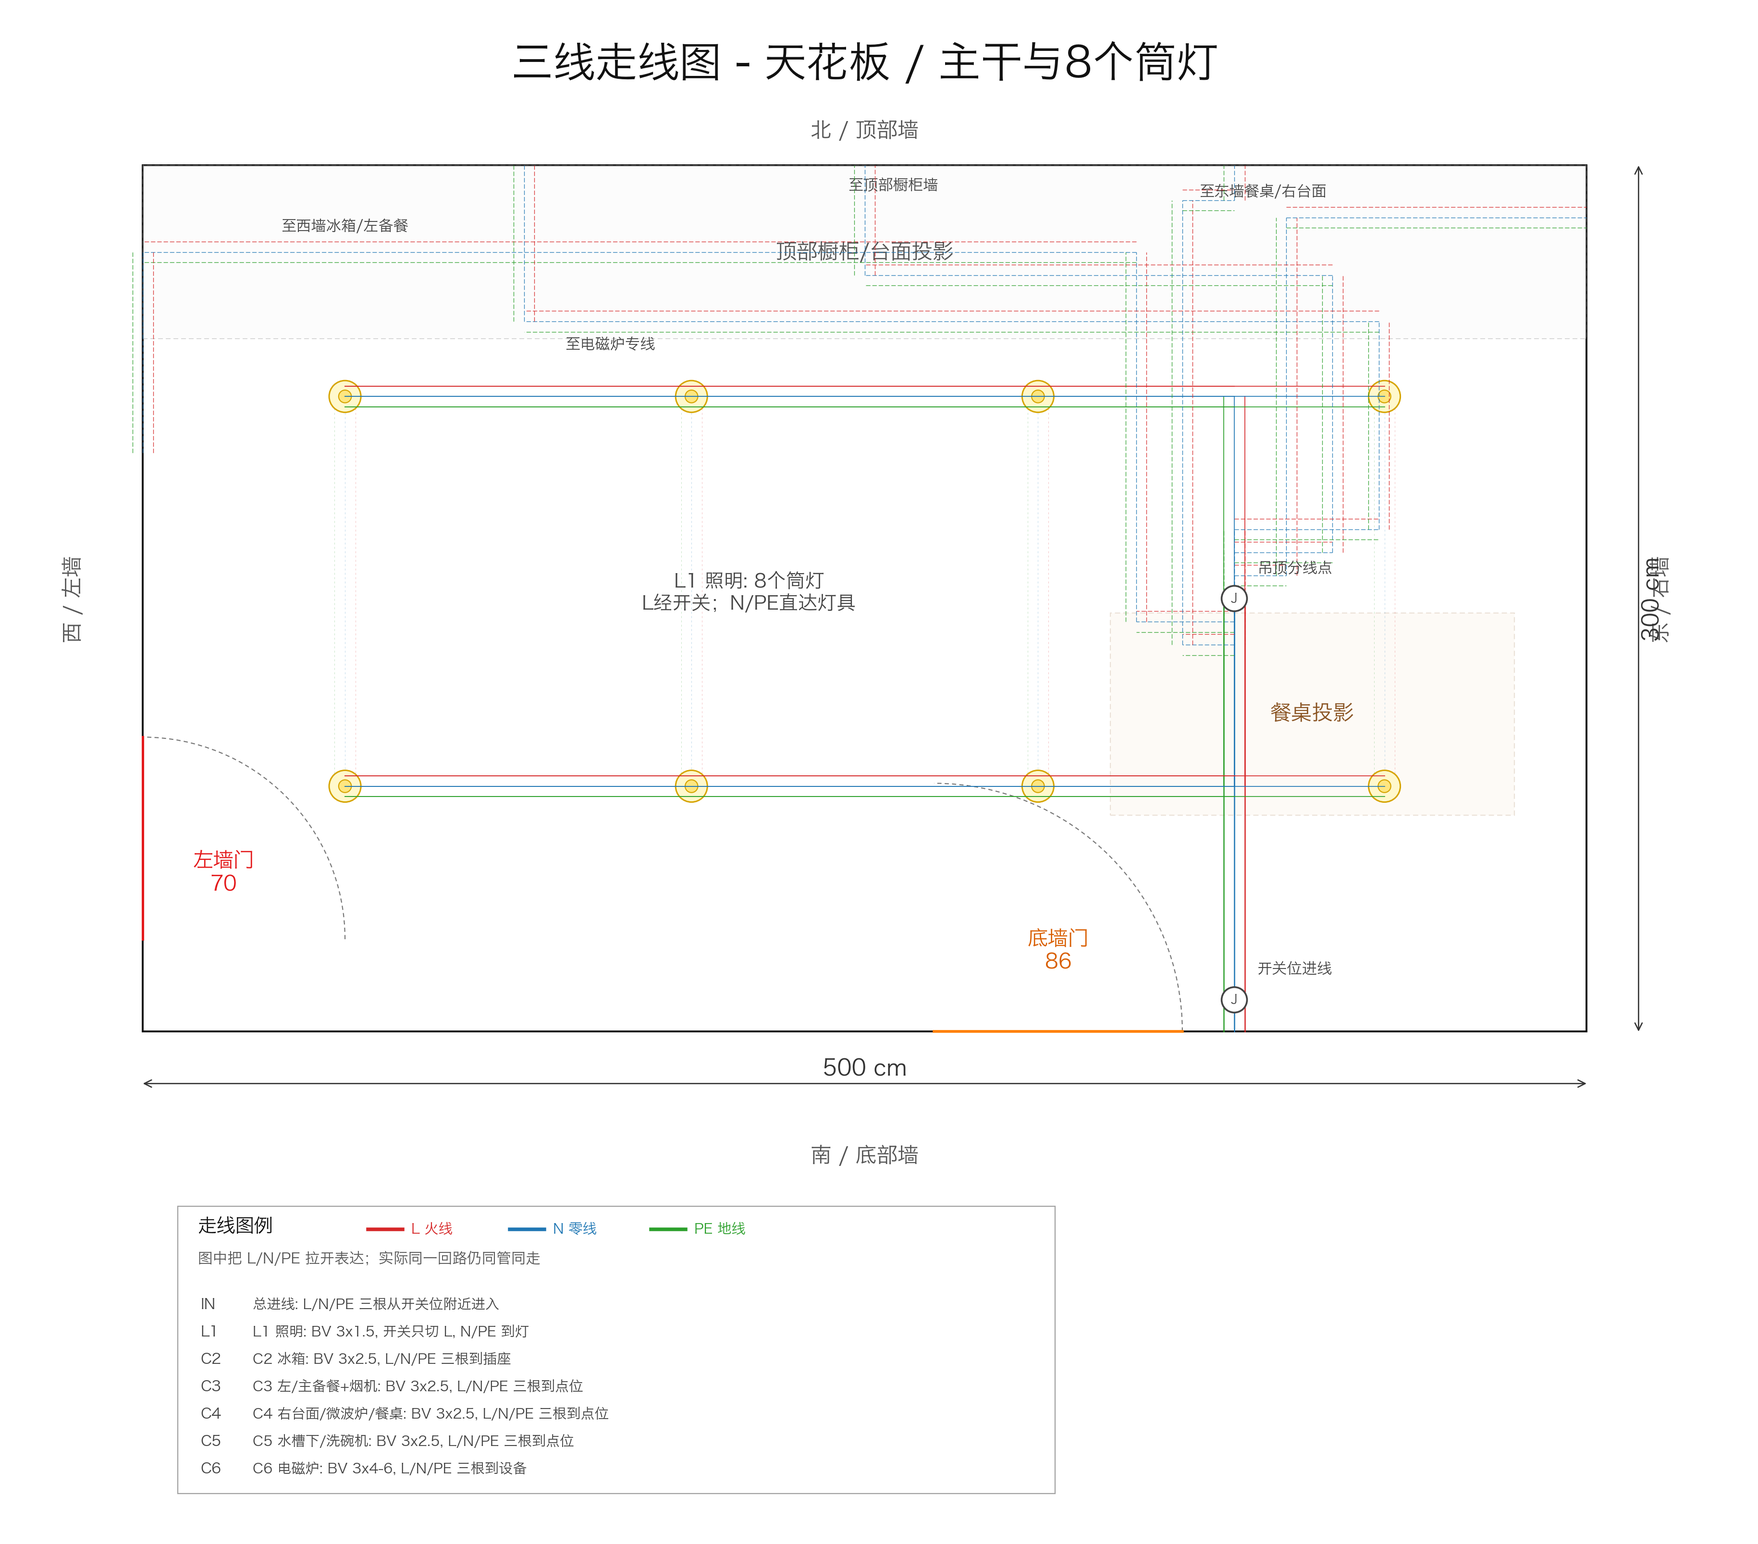
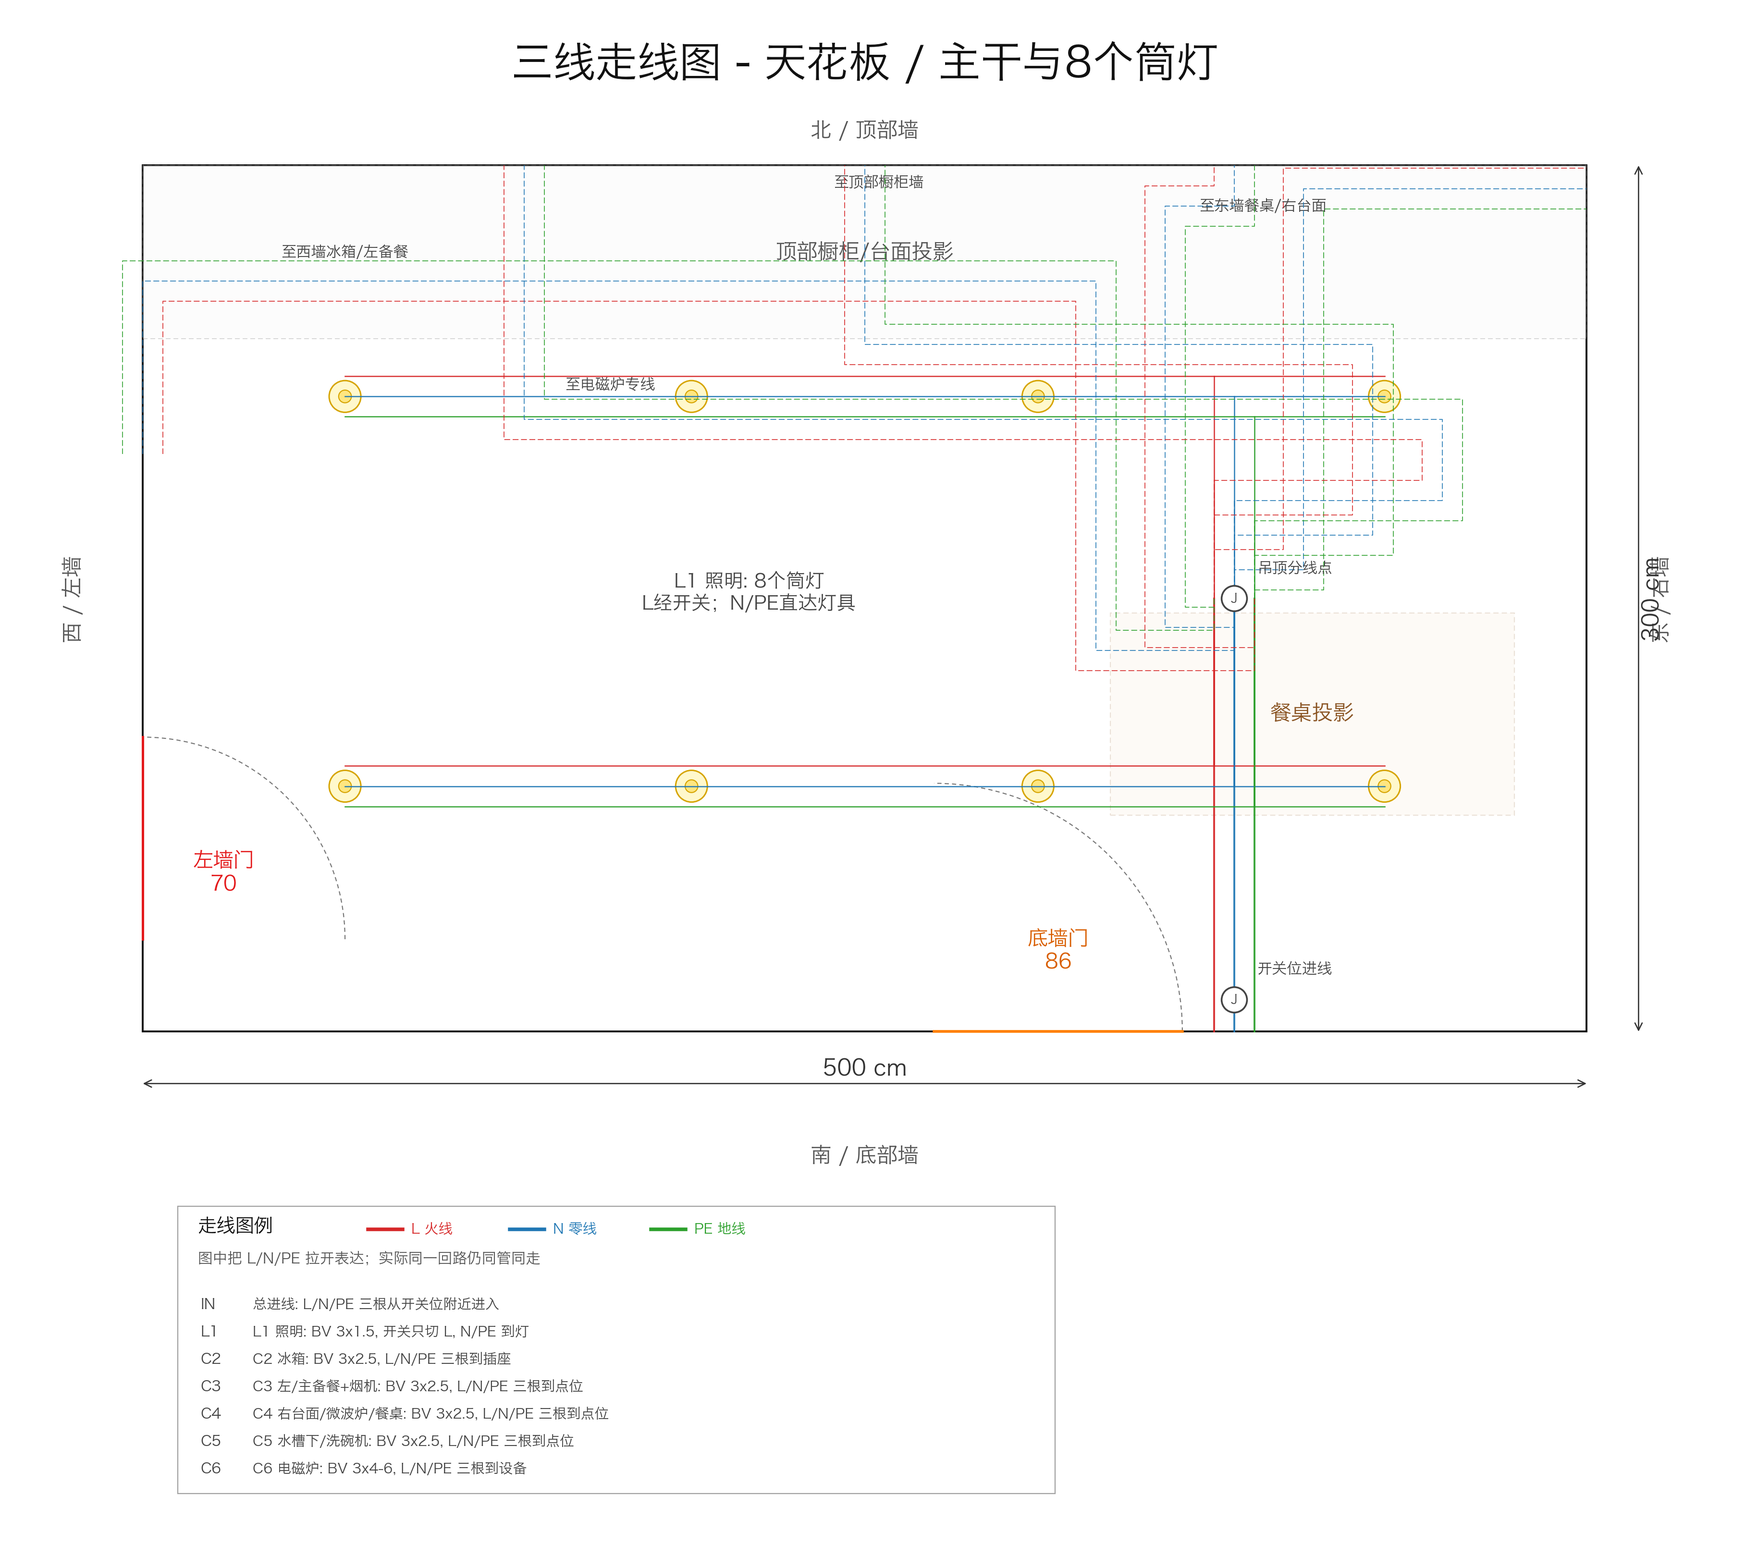
Clarify three-conductor wiring diagrams

diff --git a/draw_kitchen_layout.py b/draw_kitchen_layout.py
@@ -162,7 +162,12 @@ CONDUCTOR_LABELS = {
     "PE": "PE 地线",
 }
 
-CONDUCTOR_GAP = 3.6
+CONDUCTOR_GAP = 7.0
+CONDUCTOR_OFFSETS = {
+    "L": CONDUCTOR_GAP,
+    "N": 0.0,
+    "PE": -CONDUCTOR_GAP,
+}
 
 WIRE_LEGEND = [
     ("IN", "总进线: L/N/PE 三根从开关位附近进入"),
@@ -1124,17 +1129,21 @@ def draw_upper_cabinets_elevation(ax: plt.Axes) -> None:
     add_label(ax, 438, UPPER_TOP + 21, f"顶柜深 {UPPER_DEPTH:g}D", size=6.8, color=COLORS["upper"])
 
 
-def draw_south_electrical_points(ax: plt.Axes) -> None:
+def draw_south_electrical_points(ax: plt.Axes, *, expanded: bool = False) -> None:
+    prep_spacing = 28 if expanded else 12
+    wet_spacing = 24 if expanded else 10
+    right_spacing = 28 if expanded else 12
+    microwave_spacing = 24 if expanded else 10
     draw_electrical_point(ax, 165, 216, "油烟机\n三孔 H=220", label_dx=24, label_dy=0, size=5.1)
     draw_electrical_point(ax, 132, 52, "电磁炉/嵌入灶\n独立大功率\nH=50", label_dx=-40, label_dy=2, size=4.6)
-    draw_socket_row(ax, 220, 115, 2, "主备餐 x2\n五孔 H=115", spacing=12, label_dy=15, size=4.8)
-    draw_socket_row(ax, 312, 55, 3, "水槽下 x3\n小厨宝/RO/备用\nH=45-60", spacing=10, label_dy=18, size=4.5)
+    draw_socket_row(ax, 220, 115, 2, "主备餐 x2\n五孔 H=115", spacing=prep_spacing, label_dy=15, size=4.8)
+    draw_socket_row(ax, 312, 55, 3, "水槽下 x3\n小厨宝/RO/备用\nH=45-60", spacing=wet_spacing, label_dy=18, size=4.5)
     draw_electrical_point(ax, 352, 52, "洗碗机\n相邻柜\nH=45-60", label_dx=24, label_dy=0, size=4.5)
-    draw_socket_row(ax, 382, 115, 2, "水槽右 x2\n五孔 H=115", spacing=12, label_dy=15, size=4.8)
-    draw_socket_row(ax, 462, 115, 3, "微波炉区 x2-3\n五孔 H=115", spacing=10, label_dy=15, size=4.8)
+    draw_socket_row(ax, 382, 115, 2, "水槽右 x2\n五孔 H=115", spacing=right_spacing, label_dy=15, size=4.8)
+    draw_socket_row(ax, 462, 115, 3, "微波炉区 x2-3\n五孔 H=115", spacing=microwave_spacing, label_dy=15, size=4.8)
 
 
-def draw_elevation_counter_run(ax: plt.Axes) -> None:
+def draw_elevation_counter_run(ax: plt.Axes, *, expanded_electrical: bool = False) -> None:
     for module in TOP_MODULES:
         add_rect(ax, (module.x, 0), module.width, COUNTER_HEIGHT, fc=module.facecolor, ec="#555555", lw=0.4, zorder=2)
         mini_dim(ax, module.x, module.x + module.width, -10, f"{module.width:g}", size=7)
@@ -1164,7 +1173,7 @@ def draw_elevation_counter_run(ax: plt.Axes) -> None:
     mini_vdim(ax, WINDOW_X - 12, 0, WINDOW_SILL_H, f"{WINDOW_SILL_H:g} cm", color=COLORS["green"], size=7.0)
     mini_vdim(ax, WINDOW_X + WINDOW_W + 12, WINDOW_SILL_H, WINDOW_SILL_H + WINDOW_H, f"{WINDOW_H:g} cm", color=COLORS["window"], size=7.0)
     draw_upper_cabinets_elevation(ax)
-    draw_south_electrical_points(ax)
+    draw_south_electrical_points(ax, expanded=expanded_electrical)
 
 
 def draw_table_elevation(ax: plt.Axes, x: float, width: float, *, label: str, zorder: int = 5) -> None:
@@ -1426,6 +1435,59 @@ def draw_downlight(ax: plt.Axes, x: float, y: float, *, label: str = "", size: f
         add_label(ax, x, y + 17, label, size=size, color="#7a5b00")
 
 
+def _line_intersection(
+    a1: tuple[float, float],
+    a2: tuple[float, float],
+    b1: tuple[float, float],
+    b2: tuple[float, float],
+) -> tuple[float, float] | None:
+    x1, y1 = a1
+    x2, y2 = a2
+    x3, y3 = b1
+    x4, y4 = b2
+    denom = (x1 - x2) * (y3 - y4) - (y1 - y2) * (x3 - x4)
+    if abs(denom) < 1e-9:
+        return None
+    px = ((x1 * y2 - y1 * x2) * (x3 - x4) - (x1 - x2) * (x3 * y4 - y3 * x4)) / denom
+    py = ((x1 * y2 - y1 * x2) * (y3 - y4) - (y1 - y2) * (x3 * y4 - y3 * x4)) / denom
+    return px, py
+
+
+def _offset_polyline(
+    points: list[tuple[float, float]] | tuple[tuple[float, float], ...],
+    offset: float,
+) -> list[tuple[float, float]]:
+    if len(points) < 2 or abs(offset) < 1e-9:
+        return list(points)
+
+    shifted_segments: list[tuple[tuple[float, float], tuple[float, float]]] = []
+    for (x1, y1), (x2, y2) in zip(points, points[1:]):
+        dx = x2 - x1
+        dy = y2 - y1
+        length = (dx * dx + dy * dy) ** 0.5
+        if length < 1e-9:
+            continue
+        nx = -dy / length
+        ny = dx / length
+        shifted_segments.append(((x1 + nx * offset, y1 + ny * offset), (x2 + nx * offset, y2 + ny * offset)))
+
+    if not shifted_segments:
+        return list(points)
+
+    offset_points = [shifted_segments[0][0]]
+    for prev_segment, next_segment in zip(shifted_segments, shifted_segments[1:]):
+        intersection = _line_intersection(prev_segment[0], prev_segment[1], next_segment[0], next_segment[1])
+        if intersection is None:
+            # Collinear or degenerate transition; keep the corner continuous without adding a visible connector.
+            intersection = (
+                (prev_segment[1][0] + next_segment[0][0]) / 2,
+                (prev_segment[1][1] + next_segment[0][1]) / 2,
+            )
+        offset_points.append(intersection)
+    offset_points.append(shifted_segments[-1][1])
+    return offset_points
+
+
 def draw_wire(
     ax: plt.Axes,
     points: list[tuple[float, float]] | tuple[tuple[float, float], ...],
@@ -1437,27 +1499,24 @@ def draw_wire(
     zorder: int = 20,
     conductors: tuple[str, ...] = ("L", "N", "PE"),
 ) -> None:
-    if len(conductors) == 1:
-        conductor_offsets = {conductors[0]: 0.0}
-    else:
-        conductor_offsets = {"L": CONDUCTOR_GAP, "N": 0.0, "PE": -CONDUCTOR_GAP}
-    for (x1, y1), (x2, y2) in zip(points, points[1:]):
-        horizontal = abs(x2 - x1) >= abs(y2 - y1)
-        for conductor in conductors:
-            offset = conductor_offsets.get(conductor, 0.0)
-            dx = 0.0 if horizontal else offset
-            dy = offset if horizontal else 0.0
-            ax.add_line(
-                Line2D(
-                    [x1 + dx, x2 + dx],
-                    [y1 + dy, y2 + dy],
-                    color=CONDUCTOR_COLORS[conductor],
-                    lw=max(lw * 0.34, 0.16),
-                    ls=ls,
-                    alpha=alpha,
-                    zorder=zorder,
-                )
+    for conductor in conductors:
+        offset = CONDUCTOR_OFFSETS.get(conductor, 0.0) if len(conductors) > 1 else 0.0
+        path = _offset_polyline(points, offset)
+        if len(path) < 2:
+            continue
+        xs = [point[0] for point in path]
+        ys = [point[1] for point in path]
+        ax.add_line(
+            Line2D(
+                xs,
+                ys,
+                color=CONDUCTOR_COLORS[conductor],
+                lw=max(lw * 0.48, 0.24),
+                ls=ls,
+                alpha=alpha,
+                zorder=zorder,
             )
+        )
 
 
 def socket_centers(x: float, count: int, spacing: float) -> list[float]:
@@ -1511,6 +1570,31 @@ def draw_wire_drop(
         add_label(ax, x + label_dx, (y_top + y_bottom) / 2, label, size=size, color=WIRE_COLORS[circuit], ha="left")
 
 
+def draw_three_conductor_bus_with_riser(
+    ax: plt.Axes,
+    riser_x: float,
+    riser_y0: float,
+    bus_y: float,
+    x_start: float,
+    x_end: float,
+    circuit: str,
+    *,
+    lw: float = 0.62,
+    ls: str | tuple = "-",
+    alpha: float = 0.92,
+    zorder: int = 20,
+) -> None:
+    vertical_offsets = {"L": -CONDUCTOR_GAP, "N": 0.0, "PE": CONDUCTOR_GAP}
+    horizontal_offsets = {"L": CONDUCTOR_GAP, "N": 0.0, "PE": -CONDUCTOR_GAP}
+    for conductor in ("L", "N", "PE"):
+        x = riser_x + vertical_offsets[conductor]
+        y = bus_y + horizontal_offsets[conductor]
+        color = CONDUCTOR_COLORS[conductor]
+        line_width = max(lw * 0.48, 0.24)
+        ax.add_line(Line2D([x, x], [riser_y0, y], color=color, lw=line_width, ls=ls, alpha=alpha, zorder=zorder))
+        ax.add_line(Line2D([x_start, x_end], [y, y], color=color, lw=line_width, ls=ls, alpha=alpha, zorder=zorder))
+
+
 def draw_wiring_legend(ax: plt.Axes, x: float, y: float, *, compact: bool = False) -> None:
     row_h = 9.5 if compact else 10.5
     rows = WIRE_LEGEND if not compact else WIRE_LEGEND[:1] + WIRE_LEGEND[1:4] + WIRE_LEGEND[4:]
@@ -1542,27 +1626,27 @@ def draw_wiring_note(ax: plt.Axes, x: float, y: float, text: str, *, width: floa
 
 def build_wiring_view_from_south_figure() -> tuple[plt.Figure, plt.Axes]:
     fig, ax = setup_full_wall_view("三线走线图 - 顶部墙 / 橱柜墙", ROOM_W, figsize=(13.5, 7.0))
-    draw_elevation_counter_run(ax)
+    draw_elevation_counter_run(ax, expanded_electrical=True)
     draw_wall_trunk(ax, ROOM_W)
     add_label(ax, ENTRY_X, WALL_TRUNK_H + 21, "来自底墙开关位进线\n经吊顶主干转入", size=5.2, color=WIRE_COLORS["IN"])
 
     # Stagger routes so red/blue/green conductors are readable.
-    draw_socket_row_feed(ax, [(ENTRY_X, 281), (165, 281)], 165, 216, 1, "C3", feed_offset=14, lw=0.62)
-    draw_socket_row_feed(ax, [(ENTRY_X, 267), (220, 267)], 220, 115, 2, "C3", spacing=12, feed_offset=14, lw=0.62)
-    draw_junction(ax, 220, 267, "C3 备餐/烟机", "C3", size=4.6)
+    draw_socket_row_feed(ax, [(ENTRY_X, 286), (165, 286)], 165, 216, 1, "C3", feed_offset=26, lw=0.58)
+    draw_socket_row_feed(ax, [(ENTRY_X, 266), (220, 266)], 220, 115, 2, "C3", spacing=28, feed_offset=24, lw=0.58)
+    draw_junction(ax, 220, 266, "C3 备餐/烟机", "C3", size=4.6)
 
-    draw_socket_row_feed(ax, [(ENTRY_X, 251), (382, 251)], 382, 115, 2, "C4", spacing=12, feed_offset=14, lw=0.62)
-    draw_socket_row_feed(ax, [(382, 251), (462, 251)], 462, 115, 3, "C4", spacing=10, feed_offset=14, lw=0.62)
-    draw_junction(ax, 382, 251, "C4 右台面", "C4", size=4.6)
+    draw_socket_row_feed(ax, [(ENTRY_X, 244), (382, 244)], 382, 115, 2, "C4", spacing=28, feed_offset=24, lw=0.58)
+    draw_socket_row_feed(ax, [(382, 244), (462, 244)], 462, 115, 3, "C4", spacing=24, feed_offset=24, lw=0.58)
+    draw_junction(ax, 382, 244, "C4 右台面", "C4", size=4.6)
 
-    draw_socket_row_feed(ax, [(ENTRY_X, 235), (312, 235)], 312, 55, 3, "C5", spacing=10, feed_offset=16, lw=0.62)
-    draw_socket_row_feed(ax, [(312, 235), (352, 235)], 352, 52, 1, "C5", feed_offset=16, lw=0.62)
-    draw_junction(ax, 312, 235, "C5 湿区", "C5", size=4.6)
+    draw_socket_row_feed(ax, [(ENTRY_X, 222), (312, 222)], 312, 55, 3, "C5", spacing=24, feed_offset=24, lw=0.58)
+    draw_socket_row_feed(ax, [(312, 222), (352, 222)], 352, 52, 1, "C5", feed_offset=24, lw=0.58)
+    draw_junction(ax, 312, 222, "C5 湿区", "C5", size=4.6)
 
-    draw_socket_row_feed(ax, [(ENTRY_X, 219), (132, 219)], 132, 52, 1, "C6", feed_offset=16, lw=0.62)
-    draw_junction(ax, 132, 219, "C6 灶具专线", "C6", size=4.5)
+    draw_socket_row_feed(ax, [(ENTRY_X, 200), (132, 200)], 132, 52, 1, "C6", feed_offset=24, lw=0.58)
+    draw_junction(ax, 132, 200, "C6 灶具专线", "C6", size=4.5)
 
-    add_label(ax, 255, 286, "全图只用三种线色：红=L火，蓝=N零，绿=PE地；每个插座/设备点均三线下引", size=5.8, color="#555555")
+    add_label(ax, 255, 286, "布线图把插座排展开显示：红=L火，蓝=N零，绿=PE地；每个点位均三线下引", size=5.8, color="#555555")
     fig.tight_layout(pad=0.2)
     return fig, ax
 
@@ -1600,13 +1684,13 @@ def build_wiring_view_from_west_figure() -> tuple[plt.Figure, plt.Axes]:
     add_label(ax, 155, 120, "冰箱位", size=7, color=COLORS["fridge_edge"])
     draw_side_counter_profile(ax, TOP_Y0, ROOM_H, show_dim=False)
     draw_electrical_point(ax, 190, 45, "冰箱三孔\nH=40-50", label_dx=-20, label_dy=34, size=5.0)
-    draw_socket_row(ax, 220, 115, 2, "左备餐 x2\nH=115", spacing=12, label_dy=18, size=5.0)
+    draw_socket_row(ax, 220, 115, 2, "左备餐 x2\nH=115", spacing=28, label_dy=18, size=5.0)
     draw_wall_trunk(ax, ROOM_H, "来自吊顶主干 H≈260")
-    draw_socket_row_feed(ax, [(ROOM_H, 274), (190, 274)], 190, 45, 1, "C2", feed_offset=14, lw=0.62)
-    draw_socket_row_feed(ax, [(ROOM_H, 254), (220, 254)], 220, 115, 2, "C3", spacing=12, feed_offset=14, lw=0.62)
-    draw_junction(ax, 190, 274, "C2 冰箱", "C2", size=4.8)
-    draw_junction(ax, 220, 254, "C3 左备餐", "C3", size=4.8)
-    draw_wiring_note(ax, 8, 222, "C2/C3 管内均含 L/N/PE；墙面只做竖向下引", width=190, height=22)
+    draw_socket_row_feed(ax, [(ROOM_H, 278), (190, 278)], 190, 45, 1, "C2", feed_offset=24, lw=0.58)
+    draw_socket_row_feed(ax, [(ROOM_H, 248), (220, 248)], 220, 115, 2, "C3", spacing=28, feed_offset=24, lw=0.58)
+    draw_junction(ax, 190, 278, "C2 冰箱", "C2", size=4.8)
+    draw_junction(ax, 220, 248, "C3 左备餐", "C3", size=4.8)
+    draw_wiring_note(ax, 8, 222, "插座排在布线图中展开；每个点位均 L/N/PE 三线下引", width=205, height=22)
     fig.tight_layout(pad=0.2)
     return fig, ax
 
@@ -1619,11 +1703,11 @@ def build_wiring_view_from_east_figure() -> tuple[plt.Figure, plt.Axes]:
     table_start = ROOM_H - TABLE_Y - TABLE_D
     add_rect(ax, (table_start, 0), TABLE_D, TABLE_HEIGHT, fc=COLORS["table"], ec=COLORS["table_edge"], lw=0.45, alpha=0.20, ls=(0, (5, 3)), zorder=2)
     add_label(ax, table_start + TABLE_D / 2, TABLE_HEIGHT / 2, "餐桌投影", size=6.2, color=COLORS["table_edge"])
-    draw_socket_row(ax, EAST_POWER_ZONE_POS, HIGH_SOCKET_H, 2, "餐桌旁 x2\nH=105-120", label_dy=18, size=5.2)
-    draw_socket_row(ax, EAST_POWER_ZONE_POS, LOW_SOCKET_H, 2, "低位 x2\nH=30-35", label_dy=-18, size=5.2)
+    draw_socket_row(ax, EAST_POWER_ZONE_POS, HIGH_SOCKET_H, 2, "餐桌旁 x2\nH=105-120", spacing=28, label_dy=18, size=5.2)
+    draw_socket_row(ax, EAST_POWER_ZONE_POS, LOW_SOCKET_H, 2, "低位 x2\nH=30-35", spacing=28, label_dy=-18, size=5.2)
     draw_wall_trunk(ax, ROOM_H, "来自吊顶主干 H≈260")
-    draw_socket_row_feed(ax, [(0, 260), (EAST_POWER_ZONE_POS, 260)], EAST_POWER_ZONE_POS, HIGH_SOCKET_H, 2, "C4", spacing=12, feed_offset=14, lw=0.62)
-    draw_socket_row_feed(ax, [(EAST_POWER_ZONE_POS, HIGH_SOCKET_H + 14)], EAST_POWER_ZONE_POS, LOW_SOCKET_H, 2, "C4", spacing=12, feed_offset=14, lw=0.62)
+    draw_socket_row_feed(ax, [(0, 260), (EAST_POWER_ZONE_POS, 260)], EAST_POWER_ZONE_POS, HIGH_SOCKET_H, 2, "C4", spacing=28, feed_offset=24, lw=0.58)
+    draw_socket_row_feed(ax, [(EAST_POWER_ZONE_POS, HIGH_SOCKET_H + 24)], EAST_POWER_ZONE_POS, LOW_SOCKET_H, 2, "C4", spacing=28, feed_offset=24, lw=0.58)
     draw_junction(ax, EAST_POWER_ZONE_POS, 260, "C4 餐桌/右区", "C4", size=4.8)
     add_label(ax, EAST_POWER_ZONE_POS + 18, 72, "C4: L/N/PE同管垂直下引\n高低位同墙分接", size=5.0, color=WIRE_COLORS["C4"], ha="left")
     draw_wiring_note(ax, 8, 222, "C4 管内含 L/N/PE；餐桌高低位同墙布置", width=190, height=22)
@@ -1647,23 +1731,30 @@ def build_wiring_view_from_ceiling_figure() -> tuple[plt.Figure, plt.Axes]:
 
     light_ys = [ROOM_H - y for y in CEILING_LIGHT_Y_FROM_NORTH]
     for y in light_ys:
-        draw_wire(ax, [j0, (ENTRY_X, y), (CEILING_LIGHT_XS[0], y), (CEILING_LIGHT_XS[-1], y)], "L1", lw=0.86)
+        draw_three_conductor_bus_with_riser(
+            ax,
+            ENTRY_X,
+            j0[1],
+            y,
+            CEILING_LIGHT_XS[0],
+            CEILING_LIGHT_XS[-1],
+            "L1",
+            lw=0.86,
+        )
         for x in CEILING_LIGHT_XS:
             draw_downlight(ax, x, y)
-    for x in CEILING_LIGHT_XS:
-        draw_wire(ax, [(x, light_ys[1]), (x, light_ys[0])], "L1", lw=0.36, ls=(0, (4, 5)), alpha=0.28, zorder=2)
     add_label(ax, 210, 152, "L1 照明: 8个筒灯\nL经开关；N/PE直达灯具", size=6.4, color=WIRE_COLORS["L1"])
 
     # Socket/device circuits are staggered in plan view so L/N/PE stay legible.
-    draw_wire(ax, [j0, (ENTRY_X, 142), (ENTRY_X - 34, 142), (ENTRY_X - 34, 270), (0, 270), (0, 200)], "C2", lw=0.62, ls=(0, (7, 3)))
-    draw_wire(ax, [j0, (ENTRY_X, 134), (ENTRY_X - 18, 134), (ENTRY_X - 18, 288), (ENTRY_X, 288), (ENTRY_X, ROOM_H)], "C3", lw=0.62, ls=(0, (7, 3)))
-    draw_wire(ax, [j0, (ENTRY_X, 158), (ENTRY_X + 18, 158), (ENTRY_X + 18, 282), (ROOM_W, 282)], "C4", lw=0.62, ls=(0, (7, 3)))
-    draw_wire(ax, [j0, (ENTRY_X, 166), (ENTRY_X + 34, 166), (ENTRY_X + 34, 262), (ROOM_W / 2, 262), (ROOM_W / 2, ROOM_H)], "C5", lw=0.62, ls=(0, (7, 3)))
-    draw_wire(ax, [j0, (ENTRY_X, 174), (ENTRY_X + 50, 174), (ENTRY_X + 50, 246), (132, 246), (132, ROOM_H)], "C6", lw=0.62, ls=(0, (7, 3)))
-    add_label(ax, 388, 291, "至东墙餐桌/右台面", size=5.0, color=WIRE_COLORS["C4"])
-    add_label(ax, 260, 293, "至顶部橱柜墙", size=5.0, color=WIRE_COLORS["C3"])
-    add_label(ax, 70, 279, "至西墙冰箱/左备餐", size=5.0, color=WIRE_COLORS["C2"])
-    add_label(ax, 162, 238, "至电磁炉专线", size=5.0, color=WIRE_COLORS["C6"])
+    draw_wire(ax, [j0, (ENTRY_X, 132), (ENTRY_X - 48, 132), (ENTRY_X - 48, 260), (0, 260), (0, 200)], "C2", lw=0.58, ls=(0, (7, 3)))
+    draw_wire(ax, [j0, (ENTRY_X, 140), (ENTRY_X - 24, 140), (ENTRY_X - 24, 286), (ENTRY_X, 286), (ENTRY_X, ROOM_H)], "C3", lw=0.58, ls=(0, (7, 3)))
+    draw_wire(ax, [j0, (ENTRY_X, 160), (ENTRY_X + 24, 160), (ENTRY_X + 24, 292), (ROOM_W, 292)], "C4", lw=0.58, ls=(0, (7, 3)))
+    draw_wire(ax, [j0, (ENTRY_X, 172), (ENTRY_X + 48, 172), (ENTRY_X + 48, 238), (ROOM_W / 2, 238), (ROOM_W / 2, ROOM_H)], "C5", lw=0.58, ls=(0, (7, 3)))
+    draw_wire(ax, [j0, (ENTRY_X, 184), (ENTRY_X + 72, 184), (ENTRY_X + 72, 212), (132, 212), (132, ROOM_H)], "C6", lw=0.58, ls=(0, (7, 3)))
+    add_label(ax, 388, 286, "至东墙餐桌/右台面", size=5.0, color=WIRE_COLORS["C4"])
+    add_label(ax, 255, 294, "至顶部橱柜墙", size=5.0, color=WIRE_COLORS["C3"])
+    add_label(ax, 70, 270, "至西墙冰箱/左备餐", size=5.0, color=WIRE_COLORS["C2"])
+    add_label(ax, 162, 224, "至电磁炉专线", size=5.0, color=WIRE_COLORS["C6"])
     draw_wiring_legend(ax, 12, -160, compact=True)
     fig.tight_layout(pad=0.2)
     return fig, ax
